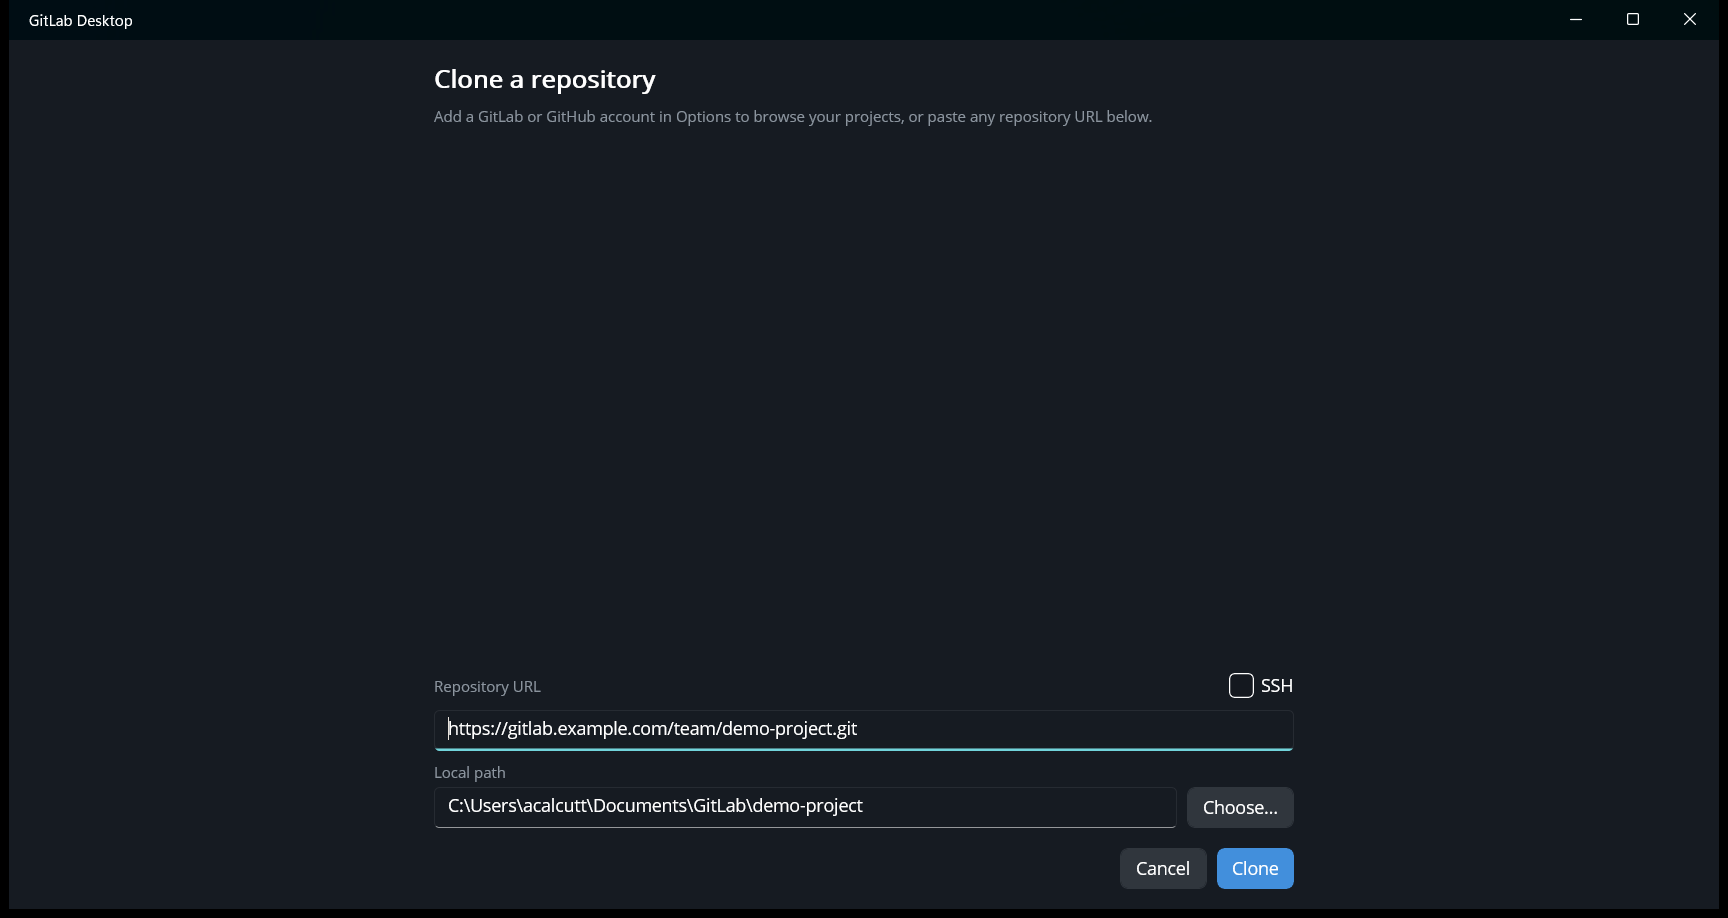
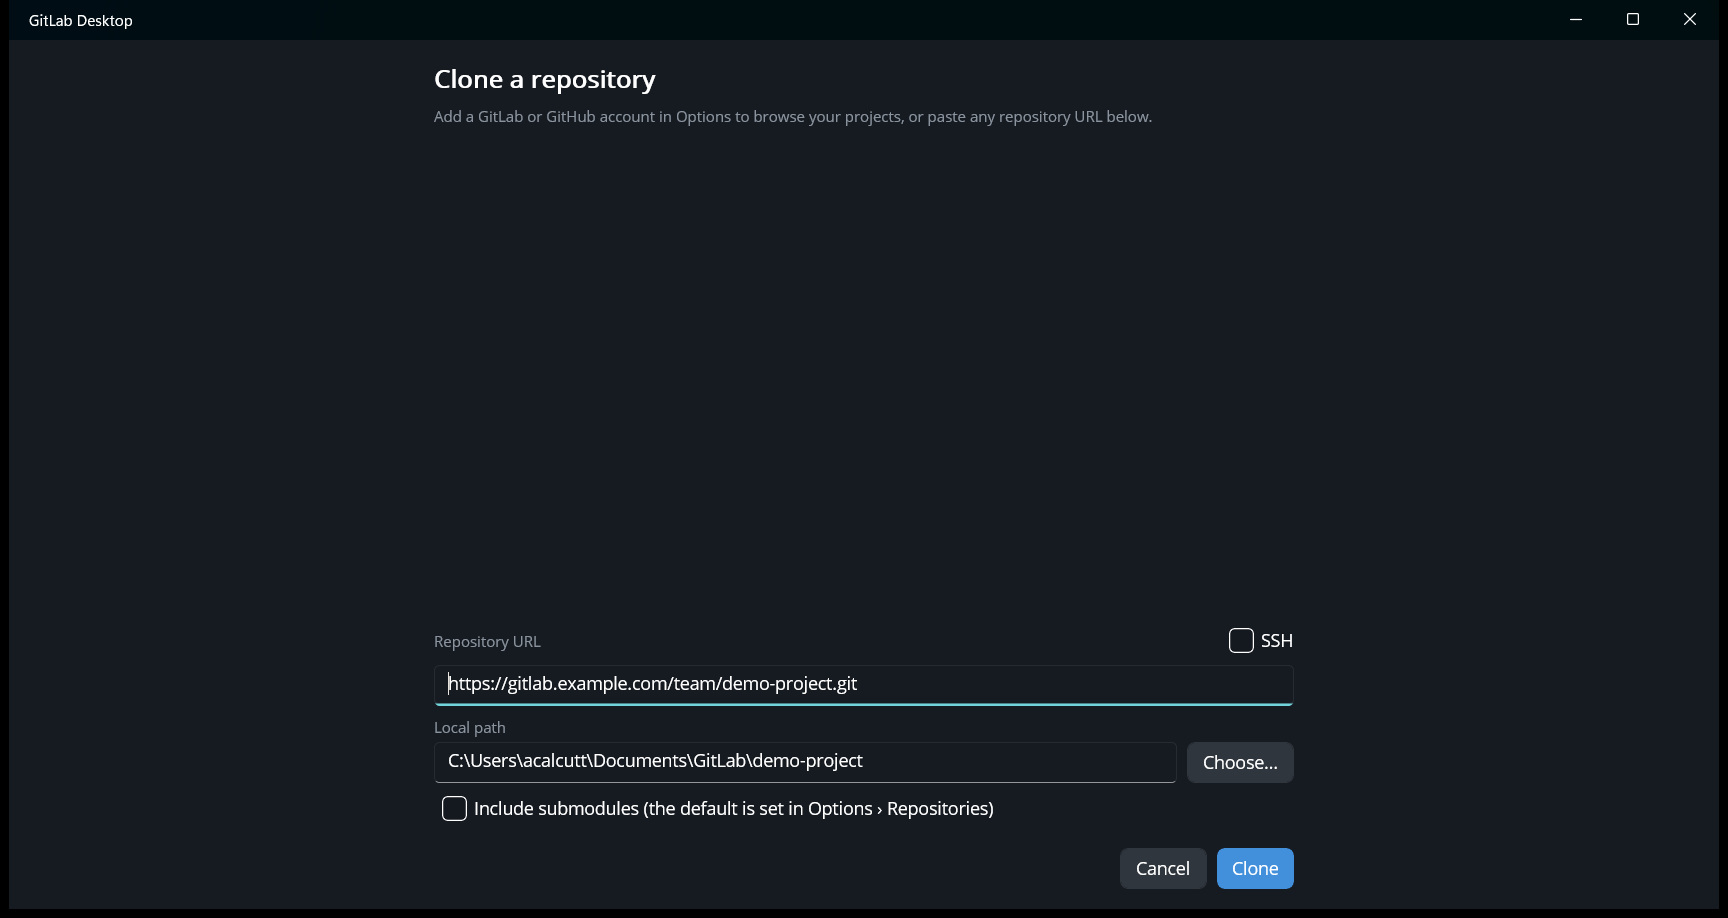
Edit the remote, .gitignore and git user for a repository in Repository settings
Repository › Repository settings is now a dialog like GitHub Desktop's with
three sections: Remote (the remote URL, as before), Ignored files (an
editor for the top-level .gitignore, keeping its line endings) and Git
config (use the global user.name/user.email, or set them in the
repository's own config; switching back removes the local ones).

Also refreshes the Options and Clone screenshots for the submodules option.

diff --git a/GitLabDesktop/Views/RepositorySettingsPage.xaml b/GitLabDesktop/Views/RepositorySettingsPage.xaml
@@ -1,0 +1,87 @@
+<?xml version="1.0" encoding="utf-8" ?>
+<ContentPage xmlns="http://schemas.microsoft.com/dotnet/2021/maui"
+             xmlns:x="http://schemas.microsoft.com/winfx/2009/xaml"
+             xmlns:vm="clr-namespace:GitLabDesktop.ViewModels"
+             x:Class="GitLabDesktop.Views.RepositorySettingsPage"
+             x:DataType="vm:RepositorySettingsViewModel"
+             BackgroundColor="{AppThemeBinding Light={StaticResource PaneLight}, Dark={StaticResource PaneDark}}">
+
+    <ContentPage.Resources>
+        <!-- A section button: highlighted while its section is showing -->
+        <Style x:Key="SectionButton" TargetType="Button" BasedOn="{StaticResource SecondaryButton}">
+            <Setter Property="HorizontalOptions" Value="Fill" />
+            <Setter Property="Padding" Value="12,8" />
+            <Setter Property="BackgroundColor" Value="Transparent" />
+        </Style>
+    </ContentPage.Resources>
+
+    <Grid RowDefinitions="Auto,*,Auto,Auto" Padding="24" RowSpacing="12" MaximumWidthRequest="860">
+        <Label Text="Repository settings" Style="{StaticResource DialogTitle}" />
+
+        <Grid Grid.Row="1" ColumnDefinitions="180,*" ColumnSpacing="24">
+            <VerticalStackLayout Spacing="4">
+                <Button Text="Remote" Style="{StaticResource SectionButton}" Command="{Binding ShowSectionCommand}" CommandParameter="0">
+                    <Button.Triggers>
+                        <DataTrigger TargetType="Button" Binding="{Binding IsRemoteSection}" Value="True">
+                            <Setter Property="BackgroundColor" Value="{StaticResource Primary}" />
+                            <Setter Property="TextColor" Value="White" />
+                        </DataTrigger>
+                    </Button.Triggers>
+                </Button>
+                <Button Text="Ignored files" Style="{StaticResource SectionButton}" Command="{Binding ShowSectionCommand}" CommandParameter="1">
+                    <Button.Triggers>
+                        <DataTrigger TargetType="Button" Binding="{Binding IsIgnoreSection}" Value="True">
+                            <Setter Property="BackgroundColor" Value="{StaticResource Primary}" />
+                            <Setter Property="TextColor" Value="White" />
+                        </DataTrigger>
+                    </Button.Triggers>
+                </Button>
+                <Button Text="Git config" Style="{StaticResource SectionButton}" Command="{Binding ShowSectionCommand}" CommandParameter="2">
+                    <Button.Triggers>
+                        <DataTrigger TargetType="Button" Binding="{Binding IsConfigSection}" Value="True">
+                            <Setter Property="BackgroundColor" Value="{StaticResource Primary}" />
+                            <Setter Property="TextColor" Value="White" />
+                        </DataTrigger>
+                    </Button.Triggers>
+                </Button>
+            </VerticalStackLayout>
+
+            <!-- Remote -->
+            <VerticalStackLayout Grid.Column="1" Spacing="8" IsVisible="{Binding IsRemoteSection}">
+                <Label Text="{Binding RemoteLabel}" FontAttributes="Bold" />
+                <Entry Text="{Binding RemoteUrl}" Placeholder="https://gitlab.example.com/group/project.git" Keyboard="Url" />
+                <Label Style="{StaticResource SecondaryText}"
+                       Text="Where Push, Pull and Fetch go, and which project the GitLab or GitHub links and merge/pull requests are for." />
+            </VerticalStackLayout>
+
+            <!-- Ignored files -->
+            <Grid Grid.Column="1" RowDefinitions="Auto,*" RowSpacing="8" IsVisible="{Binding IsIgnoreSection}">
+                <Label Style="{StaticResource SecondaryText}"
+                       Text="Editing .gitignore. This file lists files and folders git should leave out, one pattern per line (for example bin/ or *.log). Files git already tracks aren't affected." />
+                <Editor Grid.Row="1" Text="{Binding GitIgnore}" FontFamily="{StaticResource MonoFont}" FontSize="13"
+                        MinimumHeightRequest="240" />
+            </Grid>
+
+            <!-- Git config -->
+            <VerticalStackLayout Grid.Column="1" Spacing="8" IsVisible="{Binding IsConfigSection}">
+                <Label Text="For this repository I wish to" FontAttributes="Bold" />
+                <RadioButton Content="Use my global Git config" IsChecked="{Binding UseGlobalConfig}" GroupName="config" />
+                <RadioButton Content="Use a local Git config" IsChecked="{Binding UseLocalConfig}" GroupName="config" />
+                <Label Text="Name" Style="{StaticResource SecondaryText}" Margin="0,8,0,0" />
+                <Entry Text="{Binding UserName}" IsEnabled="{Binding UseLocalConfig}" Placeholder="Your Name" />
+                <Label Text="Email" Style="{StaticResource SecondaryText}" />
+                <Entry Text="{Binding Email}" IsEnabled="{Binding UseLocalConfig}" Placeholder="you@example.com" Keyboard="Email" />
+                <Label Style="{StaticResource SecondaryText}"
+                       Text="The name and email recorded on your commits. A local config applies to this repository only, for example a work email on a work project." />
+            </VerticalStackLayout>
+        </Grid>
+
+        <Label Grid.Row="2" Text="{Binding Error}" TextColor="{StaticResource KindDeleted}"
+               IsVisible="{Binding Error, Converter={StaticResource IsNotNullOrEmpty}}" />
+
+        <HorizontalStackLayout Grid.Row="3" HorizontalOptions="End" Spacing="8">
+            <Button Text="Cancel" Command="{Binding CloseCommand}" Style="{StaticResource SecondaryButton}" />
+            <Button Text="Save" Command="{Binding SaveCommand}" FontAttributes="Bold" />
+        </HorizontalStackLayout>
+    </Grid>
+</ContentPage>

diff --git a/GitLabDesktop/ViewModels/RepositorySettingsViewModel.cs b/GitLabDesktop/ViewModels/RepositorySettingsViewModel.cs
@@ -1,0 +1,129 @@
+using CommunityToolkit.Mvvm.ComponentModel;
+using CommunityToolkit.Mvvm.Input;
+using GitLabDesktop.Core.Git;
+
+namespace GitLabDesktop.ViewModels;
+
+/// <summary>
+/// Repository › Repository settings, like GitHub Desktop's: the remote's URL, the .gitignore, and whether commits use
+/// the global git name and email or ones set for this repository only. Completes with true when something was saved.
+/// </summary>
+public sealed partial class RepositorySettingsViewModel(GitRepository repo, string remoteName) : ModalViewModel<bool>
+{
+    protected override bool CancelledResult => false;
+
+    public string RemoteName { get; } = remoteName;
+    public string RemoteLabel => $"Primary remote repository ({RemoteName})";
+
+    /// <summary>Whether Save changed the remote URL, so the caller re-reads which server the repository is on.</summary>
+    public bool RemoteChanged { get; private set; }
+
+    // ── Sections ─────────────────────────────────────────────────────────────
+
+    [ObservableProperty]
+    [NotifyPropertyChangedFor(nameof(IsRemoteSection), nameof(IsIgnoreSection), nameof(IsConfigSection))]
+    private int _section;
+
+    public bool IsRemoteSection => Section == 0;
+    public bool IsIgnoreSection => Section == 1;
+    public bool IsConfigSection => Section == 2;
+
+    [RelayCommand] void ShowSection(string index) => Section = int.Parse(index);
+
+    // ── Values ───────────────────────────────────────────────────────────────
+
+    [ObservableProperty] private string _remoteUrl = "";
+    [ObservableProperty] private string _gitIgnore = "";
+
+    [ObservableProperty]
+    [NotifyPropertyChangedFor(nameof(UseGlobalConfig))]
+    private bool _useLocalConfig;
+
+    public bool UseGlobalConfig
+    {
+        get => !UseLocalConfig;
+        set => UseLocalConfig = !value;
+    }
+
+    [ObservableProperty] private string _userName = "";
+    [ObservableProperty] private string _email = "";
+
+    string? _loadedRemote, _loadedIgnore, _localName, _localEmail, _globalName, _globalEmail;
+
+    /// <summary>Switching to a local config starts from the global name and email; back to global shows those again.</summary>
+    partial void OnUseLocalConfigChanged(bool value)
+    {
+        UserName = (value ? _localName ?? _globalName : _globalName) ?? "";
+        Email = (value ? _localEmail ?? _globalEmail : _globalEmail) ?? "";
+    }
+
+    public async Task LoadAsync()
+    {
+        try
+        {
+            _loadedRemote = await repo.GetRemoteUrlAsync(RemoteName);
+            RemoteUrl = _loadedRemote ?? "";
+            _loadedIgnore = (await repo.ReadGitIgnoreAsync()).Replace("\r\n", "\n");
+            GitIgnore = _loadedIgnore;
+            _localName = await repo.GetLocalConfigAsync("user.name");
+            _localEmail = await repo.GetLocalConfigAsync("user.email");
+            _globalName = await repo.GetGlobalConfigAsync("user.name");
+            _globalEmail = await repo.GetGlobalConfigAsync("user.email");
+            UseLocalConfig = _localName is not null || _localEmail is not null;
+            OnUseLocalConfigChanged(UseLocalConfig);   // fill the fields even when the value didn't change
+        }
+        catch (Exception ex)
+        {
+            Error = ex.Message;
+        }
+    }
+
+    [RelayCommand]
+    async Task Save()
+    {
+        Error = null;
+        if (UseLocalConfig && string.IsNullOrWhiteSpace(UserName) && string.IsNullOrWhiteSpace(Email))
+        {
+            Error = "Enter a name and email for this repository, or use your global Git config.";
+            Section = 2;
+            return;
+        }
+        IsBusy = true;
+        try
+        {
+            var url = RemoteUrl.Trim();
+            if (url.Length > 0 && url != (_loadedRemote ?? ""))
+            {
+                await repo.SetRemoteUrlAsync(RemoteName, url);
+                RemoteChanged = true;
+            }
+
+            if (GitIgnore.Replace("\r\n", "\n").Replace('\r', '\n') != _loadedIgnore)
+                await repo.WriteGitIgnoreAsync(GitIgnore);
+
+            if (UseLocalConfig)
+            {
+                if (UserName.Trim() != (_localName ?? "")) await repo.SetLocalConfigAsync("user.name", UserName);
+                if (Email.Trim() != (_localEmail ?? "")) await repo.SetLocalConfigAsync("user.email", Email);
+            }
+            else
+            {
+                // Back to the global config: drop this repository's own values
+                if (_localName is not null) await repo.SetLocalConfigAsync("user.name", null);
+                if (_localEmail is not null) await repo.SetLocalConfigAsync("user.email", null);
+            }
+            Complete(true);
+        }
+        catch (Exception ex)
+        {
+            Error = ex.Message;
+        }
+        finally
+        {
+            IsBusy = false;
+        }
+    }
+
+    [RelayCommand]
+    void Close() => Cancel();
+}

diff --git a/GitLabDesktop.Core/Git/GitRepository.Settings.cs b/GitLabDesktop.Core/Git/GitRepository.Settings.cs
@@ -1,0 +1,49 @@
+namespace GitLabDesktop.Core.Git;
+
+public sealed partial class GitRepository
+{
+    string GitIgnorePath => System.IO.Path.Combine(Path, ".gitignore");
+
+    /// <summary>The repository's top-level .gitignore, or "" when there is none.</summary>
+    public async Task<string> ReadGitIgnoreAsync()
+        => File.Exists(GitIgnorePath) ? await File.ReadAllTextAsync(GitIgnorePath) : "";
+
+    /// <summary>
+    /// Writes the top-level .gitignore, keeping the file's existing line endings (text boxes hand back \r or \r\n on
+    /// Windows) and ending it with a newline. Clearing the text leaves an empty file rather than deleting a file git
+    /// may track; with no file yet, empty text creates nothing.
+    /// </summary>
+    public async Task WriteGitIgnoreAsync(string text)
+    {
+        var existing = File.Exists(GitIgnorePath) ? await File.ReadAllTextAsync(GitIgnorePath) : null;
+        var newline = existing?.Contains("\r\n") == true ? "\r\n" : "\n";
+        var lines = text.Replace("\r\n", "\n").Replace('\r', '\n').TrimEnd('\n');
+        var content = string.IsNullOrWhiteSpace(lines) ? "" : lines.Replace("\n", newline) + newline;
+        if (content == existing) return;
+        if (existing is null && content.Length == 0) return;   // nothing to create
+        await File.WriteAllTextAsync(GitIgnorePath, content);
+    }
+
+    /// <summary>A value from this repository's own config (not inherited from the global one), or null.</summary>
+    public async Task<string?> GetLocalConfigAsync(string key)
+    {
+        var r = await Run(["config", "--local", "--get", key], throwOnError: false);
+        return r.Success ? r.StdOut.TrimEnd('\r', '\n') : null;
+    }
+
+    /// <summary>A value from the user's global git config, or null.</summary>
+    public async Task<string?> GetGlobalConfigAsync(string key)
+    {
+        var r = await Run(["config", "--global", "--get", key], throwOnError: false);
+        return r.Success ? r.StdOut.TrimEnd('\r', '\n') : null;
+    }
+
+    /// <summary>Sets a value in this repository's config; null or empty removes it.</summary>
+    public async Task SetLocalConfigAsync(string key, string? value)
+    {
+        if (string.IsNullOrWhiteSpace(value))
+            await Run(["config", "--local", "--unset", key], throwOnError: false);   // exit 5 when it wasn't set
+        else
+            await Run("config", "--local", key, value.Trim());
+    }
+}

diff --git a/GitLabDesktop.Core.Tests/RepositorySettingsTests.cs b/GitLabDesktop.Core.Tests/RepositorySettingsTests.cs
@@ -1,0 +1,48 @@
+using GitLabDesktop.Core.Git;
+
+namespace GitLabDesktop.Core.Tests;
+
+public class RepositorySettingsTests
+{
+    [Fact]
+    public async Task GitIgnoreKeepsTheFilesLineEndings()
+    {
+        using var t = await TempRepo.CreateAsync();
+        Assert.Equal("", await t.Repo.ReadGitIgnoreAsync());
+
+        // A text box on Windows hands back \r line breaks; a new file gets \n
+        await t.Repo.WriteGitIgnoreAsync("bin/\robj/");
+        Assert.Equal("bin/\nobj/\n", t.Read(".gitignore"));
+
+        // An existing CRLF file stays CRLF
+        File.WriteAllText(Path.Combine(t.Dir, ".gitignore"), "bin/\r\n");
+        await t.Repo.WriteGitIgnoreAsync("bin/\r\nnode_modules/\r\n\r\n");
+        Assert.Equal("bin/\r\nnode_modules/\r\n", t.Read(".gitignore"));
+
+        // Cleared: an empty file, not a deleted one
+        await t.Repo.WriteGitIgnoreAsync("");
+        Assert.Equal("", t.Read(".gitignore"));
+    }
+
+    [Fact]
+    public async Task NoGitIgnoreIsCreatedForEmptyText()
+    {
+        using var t = await TempRepo.CreateAsync();
+        await t.Repo.WriteGitIgnoreAsync("  \r");
+        Assert.False(File.Exists(Path.Combine(t.Dir, ".gitignore")));
+    }
+
+    [Fact]
+    public async Task LocalConfigIsSetAndRemoved()
+    {
+        using var t = await TempRepo.CreateAsync();   // sets a local user.name of "Test"
+        Assert.Equal("Test", await t.Repo.GetLocalConfigAsync("user.name"));
+
+        await t.Repo.SetLocalConfigAsync("user.name", "  Alex Example ");
+        Assert.Equal("Alex Example", await t.Repo.GetLocalConfigAsync("user.name"));
+
+        await t.Repo.SetLocalConfigAsync("user.name", "");
+        Assert.Null(await t.Repo.GetLocalConfigAsync("user.name"));
+        await t.Repo.SetLocalConfigAsync("user.name", null);   // already gone: no error
+    }
+}

diff --git a/GitLabDesktop/ViewModels/MainViewModel.Repository.cs b/GitLabDesktop/ViewModels/MainViewModel.Repository.cs
@@ -263,15 +263,12 @@ public sealed partial class MainViewModel
     async Task RepositorySettings()
     {
         if (Repo is null) return;
-        var current = await Repo.GetRemoteUrlAsync(RemoteName);
-        var url = await _dialogs.PromptAsync("Repository settings", $"URL of the '{RemoteName}' remote:", current, "Save",
-            "https://gitlab.example.com/group/project.git");
-        if (string.IsNullOrWhiteSpace(url) || url == current) return;
-        await RunAsync("Saving…", async () =>
-        {
-            await Repo.SetRemoteUrlAsync(RemoteName, url.Trim());
-            await LoadRemoteAsync();
-        });
+        var vm = new RepositorySettingsViewModel(Repo, RemoteName);
+        await _dialogs.PushModalAsync(new RepositorySettingsPage(vm));
+        if (!await vm.Result) return;
+        // A changed .gitignore changes which files are listed; a changed remote may be on another server.
+        await RefreshAsync();
+        if (vm.RemoteChanged) await LoadRemoteAsync();
     }
 
     // ── App ──────────────────────────────────────────────────────────────────

diff --git a/GitLabDesktop/Views/RepositorySettingsPage.xaml.cs b/GitLabDesktop/Views/RepositorySettingsPage.xaml.cs
@@ -1,0 +1,21 @@
+using GitLabDesktop.ViewModels;
+
+namespace GitLabDesktop.Views;
+
+public partial class RepositorySettingsPage : ContentPage
+{
+    readonly RepositorySettingsViewModel _vm;
+
+    public RepositorySettingsPage(RepositorySettingsViewModel vm)
+    {
+        InitializeComponent();
+        _vm = vm;
+        ModalPageHelper.Attach(this, vm);
+    }
+
+    protected override async void OnAppearing()
+    {
+        base.OnAppearing();
+        await _vm.LoadAsync();
+    }
+}

diff --git a/docs/repositories.md b/docs/repositories.md
@@ -56,7 +56,21 @@ in [Options › Repositories](options.md#repositories), where **Use GitHub Deskt
 | **Show in Explorer / Finder** (Ctrl+Shift+F) | The repository folder. |
 | **Open in editor** (Ctrl+Shift+A) | Opens the folder with your editor command (`code` by default; see [Options › Tools](options.md#tools)). |
 | **Create issue** (Ctrl+I), **View issues**, **View merge requests / pull requests**, **View pipelines / Actions** | The project's pages on GitLab or GitHub. |
-| **Repository settings…** | Change the URL of the repository's remote. |
+| **Repository settings…** | The remote's URL, the `.gitignore`, and the name and email for commits. See [Repository settings](#repository-settings). |
 
 The app refreshes a repository whenever its window regains focus, so changes made in your editor or a terminal show
 up when you switch back. **View › Refresh** (F5) refreshes right away.
+
+## Repository settings
+
+**Repository › Repository settings…** has three sections:
+
+![Repository settings](images/repository-settings.png)
+
+- **Remote**: the URL of the `origin` remote, where Push, Pull and Fetch go. Changing it also changes which GitLab or
+  GitHub project the links and merge/pull requests are for.
+- **Ignored files**: edit the repository's `.gitignore`, one pattern per line (for example `bin/` or `*.log`). Files
+  git already tracks aren't affected. To ignore a single changed file, right-click it in the Changes tab instead.
+- **Git config**: the name and email recorded on your commits. **Use my global Git config** uses the ones set for
+  all your repositories. **Use a local Git config** sets them for this repository only, for example a work email on
+  a work project. Switching back to global removes this repository's own name and email.

diff --git a/CHANGELOG.md b/CHANGELOG.md
@@ -3,6 +3,8 @@
 ## master
 ### ✨ Features and improvements
 - _...Add new stuff here..._
+- **Repository settings** is now a dialog like GitHub Desktop's, with **Remote** (the remote URL), **Ignored files** (edit the `.gitignore`) and **Git config** (use your global name and email, or set ones for this repository only).
+- **Submodules**: the clone dialog has an **Include submodules** checkbox, and **Options › Repositories › Include submodules** sets its default. That option is git's own `submodule.recurse` setting, so switching branches and pulling also update submodules, in the app and on the command line. Clones used to always include submodules; they now follow this setting, which is off unless you've turned it on.
 
 ### 🐞 Bug fixes
 - _...Add new stuff here..._
